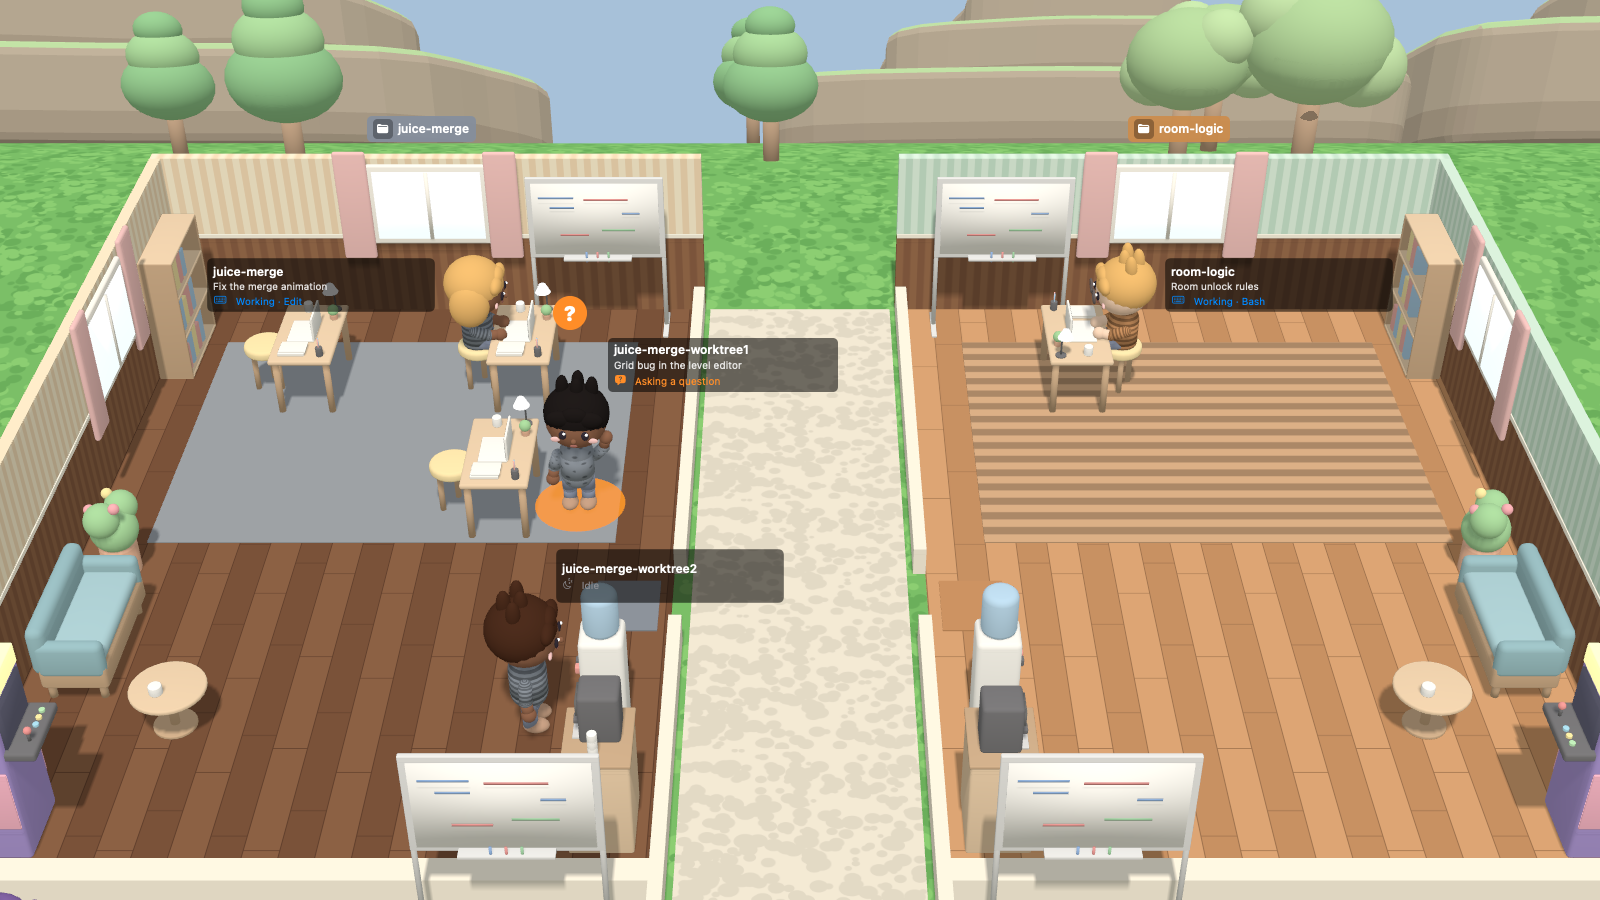
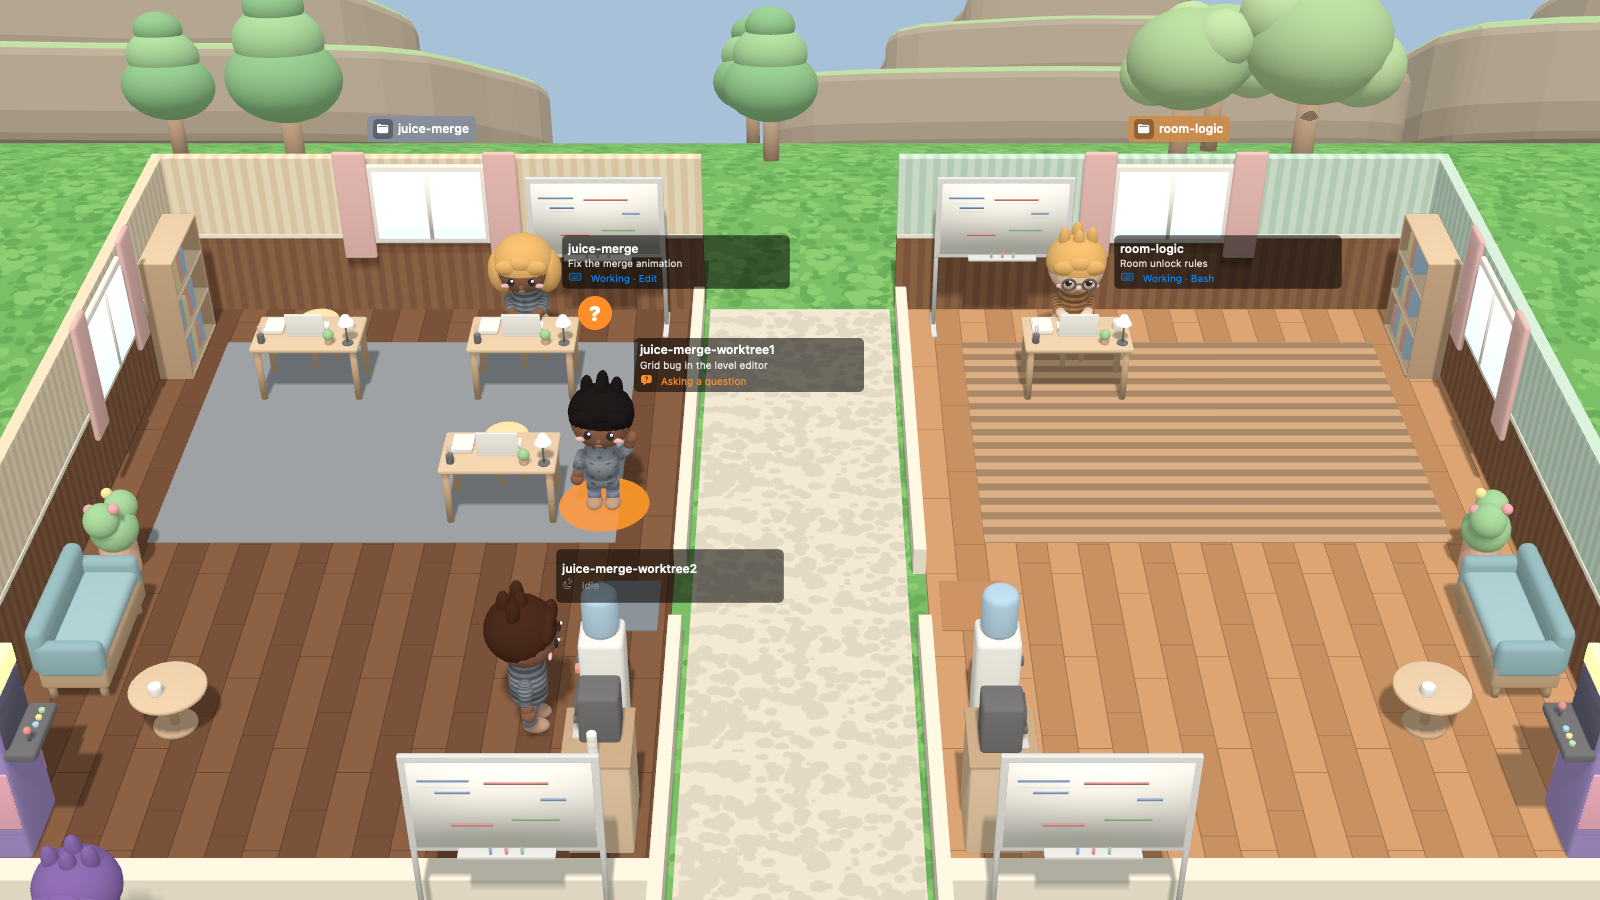
Desk direction setting: horizontal (default; agents sit behind the desk facing the camera, as before) or vertical (desks along the room, agents face the corridor); seats, stand spots, walking obstacles and the desk model follow it; README screenshot with horizontal desks

Changed region(s): [[0.125, 0.2489, 0.5625, 0.5911], [0.625, 0.2489, 0.875, 0.4667], [0.0, 0.9333, 0.0938, 1.0]]

diff --git a/Tests/AgentOfficeCoreTests/RoomLayoutTests.swift b/Tests/AgentOfficeCoreTests/RoomLayoutTests.swift
@@ -2,18 +2,34 @@ import Foundation
 import Testing
 @testable import AgentOfficeCore
 
-/// Ofis hayatı: masalar koridora bakar, odada sekiz eşya var ve hepsi oda düzenleyicisinden kapatılabilir.
+/// Ofis hayatı: masalar yatay (kameraya) ya da dikey (koridora) durur, odada sekiz eşya var ve hepsi oda
+/// düzenleyicisinden kapatılabilir. Yerleşim testleri iki yön için de.
 @Suite struct RoomLayoutTests {
     /// İki proje: ilk oda solda, ikincisi sağda.
-    func rooms(_ desks: Int, furniture: Set<RoomFurniture> = Set(RoomFurniture.allCases)) -> [OfficePlan.Room] {
+    func rooms(_ desks: Int, furniture: Set<RoomFurniture> = Set(RoomFurniture.allCases),
+               orientation: DeskOrientation = .horizontal) -> [OfficePlan.Room] {
         let members = (0..<desks).flatMap { i in [OfficePlan.Member(id: "a\(i)", roomKey: "/a"), OfficePlan.Member(id: "b\(i)", roomKey: "/b")] }
         let plan = OfficePlan.make(members, slots: OfficePlan.assignSlots(members, previous: [:]))
             .applying(furniture: ["/a": furniture, "/b": furniture])
+            .applying(deskOrientation: orientation)
         return plan.rooms
     }
 
-    @Test func seatFacesTheCorridor() {
+    /// Varsayılan yatay: köylü masanın arkasında oturur ve kameraya bakar.
+    @Test func horizontalSeatIsBehindTheDeskFacingTheCamera() {
         for room in rooms(2) {
+            #expect(room.deskOrientation == .horizontal)
+            for desk in room.desks {
+                let seat = room.seat(for: desk)
+                #expect(seat.x == desk.x && desk.z - seat.z > 0.3)
+                #expect(room.seatFacing(for: desk) == OfficePlan.Room.cameraFacing)
+                #expect(room.deskHalfExtents.x > room.deskHalfExtents.z)
+            }
+        }
+    }
+
+    @Test func verticalSeatFacesTheCorridor() {
+        for room in rooms(2, orientation: .vertical) {
             for desk in room.desks {
                 let seat = room.seat(for: desk)
                 // Köylü masanın koridordan uzak tarafında oturur ve koridora bakar.
@@ -36,9 +52,9 @@ import Testing
     }
 
     /// Eşyalar masalara, kapıya ve birbirine binmez (gövde payları çıkarılınca).
-    @Test(arguments: [1, 2, 3, 5, 8])
-    func desksAndFurnitureDoNotOverlap(desks: Int) {
-        for room in rooms(desks) {
+    @Test(arguments: [1, 2, 3, 5, 8], DeskOrientation.allCases)
+    func desksAndFurnitureDoNotOverlap(desks: Int, orientation: DeskOrientation) {
+        for room in rooms(desks, orientation: orientation) {
             let hard = RoomNav(room: room).obstacles.filter { !$0.soft }
             for (i, a) in hard.enumerated() {
                 for b in hard[(i + 1)...] {
@@ -51,8 +67,9 @@ import Testing
     }
 
     /// Bütün eşyalar kapalıyken de masalara ve kapıya yol var; kapalı eşya engel ve ilgi noktası değildir.
-    @Test func furnitureOffIsNotAnObstacleOrSpot() {
-        for room in rooms(4, furniture: []) {
+    @Test(arguments: DeskOrientation.allCases)
+    func furnitureOffIsNotAnObstacleOrSpot(orientation: DeskOrientation) {
+        for room in rooms(4, furniture: [], orientation: orientation) {
             #expect(room.spots.isEmpty)
             let nav = RoomNav(room: room)
             #expect(nav.obstacles.count == room.desks.count * 2)
@@ -62,14 +79,29 @@ import Testing
         #expect(Set(some.spots.map(\.kind)) == [.arcade, .whiteboard])
     }
 
-    @Test func everySpotIsReachableInBothSides() {
-        for room in rooms(6) {
+    @Test(arguments: DeskOrientation.allCases)
+    func everySpotIsReachableInBothSides(orientation: DeskOrientation) {
+        for room in rooms(6, orientation: orientation) {
             #expect(Set(room.spots.map(\.kind)) == Set(RoomSpot.Kind.allCases))
             let nav = RoomNav(room: room)
             for spot in room.spots {
                 let target = room.approach(to: spot)
                 #expect(nav.isFree(target.stand), "\(room.side) \(spot.kind) yaklaşma noktası dolu")
                 #expect(nav.path(from: room.doorInside, to: target.stand)?.last == target.stand, "\(room.side) \(spot.kind)")
+            }
+        }
+    }
+
+    /// Her masanın taburesine ve ayakta durma yerine kapıdan yol var; ayakta durma yeri boş (iki yön için).
+    @Test(arguments: [1, 4, 8], DeskOrientation.allCases)
+    func seatsAndStandSpotsAreReachable(desks: Int, orientation: DeskOrientation) {
+        for room in rooms(desks, orientation: orientation) {
+            let nav = RoomNav(room: room)
+            for desk in room.desks {
+                let stand = room.standSpot(for: desk), seat = room.seat(for: desk)
+                #expect(nav.isFree(stand), "\(room.side) \(orientation) ayakta durma yeri dolu")
+                #expect(nav.path(from: room.doorInside, to: stand)?.last == stand, "\(room.side) \(orientation)")
+                #expect(nav.path(from: room.doorInside, to: seat)?.last == seat, "\(room.side) \(orientation)")
             }
         }
     }

diff --git a/Sources/AgentOfficeCore/AvatarPlanner.swift b/Sources/AgentOfficeCore/AvatarPlanner.swift
@@ -124,18 +124,34 @@ public struct RoomSpot: Equatable, Sendable {
 extension OfficePlan.Room {
     public var doorInside: PlanPoint { PlanPoint(x: corridorEdgeX + outward * 0.35, z: doorZ) }
     public var doorOutside: PlanPoint { PlanPoint(x: corridorEdgeX - outward * 0.6, z: doorZ) }
+    /// Tabure: yatayda masanın arkasında (küçük z), dikeyde masanın koridordan uzak tarafında.
     public func seat(for desk: OfficePlan.Desk) -> PlanPoint {
-        PlanPoint(x: desk.x + outward * DeskGeometry.seatOffset, z: desk.z)
+        switch deskOrientation {
+        case .horizontal: PlanPoint(x: desk.x, z: desk.z - DeskGeometry.seatOffset)
+        case .vertical: PlanPoint(x: desk.x + outward * DeskGeometry.seatOffset, z: desk.z)
+        }
     }
     /// Kameraya (+z, ekranın altına) dönük yön: masanın yanında ayakta bekleyen köylü böyle durur.
     public static let cameraFacing = 0.0
-    /// Masada oturan köylünün yönü: koridora (sol oda +x, sağ oda −x). Masa da bu açıyla döner.
-    public func seatFacing(for desk: OfficePlan.Desk) -> Double { -outward * Double.pi / 2 }
+    /// Masada oturan köylünün yönü: yatayda kameraya, dikeyde koridora (sol oda +x, sağ oda −x). Masa da bu açıyla döner.
+    public func seatFacing(for desk: OfficePlan.Desk) -> Double {
+        switch deskOrientation {
+        case .horizontal: Self.cameraFacing
+        case .vertical: -outward * Double.pi / 2
+        }
+    }
+    /// Masanın x ve z boyunca yarı ölçüleri (yöne göre; uzun kenar yatayda x, dikeyde z boyunca).
+    public var deskHalfExtents: (x: Double, z: Double) {
+        switch deskOrientation {
+        case .horizontal: (DeskGeometry.deskHalfDepth, DeskGeometry.deskHalfWidth)
+        case .vertical: (DeskGeometry.deskHalfWidth, DeskGeometry.deskHalfDepth)
+        }
+    }
     /// Taburenin arkasındaki boşluk (bir sonraki masa sütununa kadar): köylüler masaya buradan yürür.
     public func aisleX(for desk: OfficePlan.Desk) -> Double { desk.x + outward * OfficePlan.columnSpacing / 2 }
     /// Masanın koridor tarafı: köylü beklerken burada ayakta durur.
     public func standSpot(for desk: OfficePlan.Desk) -> PlanPoint {
-        PlanPoint(x: desk.x - outward * (DeskGeometry.deskHalfWidth + 0.35), z: desk.z)
+        PlanPoint(x: desk.x - outward * (deskHalfExtents.x + 0.35), z: desk.z)
     }
 
     /// Eşyalar (açık olanlar): koridor tarafındaki arka köşede ayaklı beyaz tahta (arka penceresi ve oda tabelası

diff --git a/Sources/AgentOffice/SimpleOfficeView.swift b/Sources/AgentOffice/SimpleOfficeView.swift
@@ -111,6 +111,7 @@ struct SettingsView: View {
     @AppStorage(OfficeMetalView.dayNightKey) private var dayNight = true
     @AppStorage(OfficeView.autoFocusKey) private var autoFocus = true
     @AppStorage(OfficeMetalView.energySavingKey) private var energySaving = true
+    @AppStorage(AppModel.deskOrientationKey) private var deskOrientation = DeskOrientation.horizontal
 
     var body: some View {
         Form {
@@ -130,6 +131,14 @@ struct SettingsView: View {
             Divider()
             Toggle("Office view", isOn: $richOffice)
             Text("When on, the office is drawn with rooms and animation, and you can navigate it. When off, it shows plain cards without animation (less CPU and GPU).")
+                .font(.callout).foregroundStyle(.secondary).fixedSize(horizontal: false, vertical: true)
+            Picker("Desks", selection: $deskOrientation) {
+                Text("Horizontal").tag(DeskOrientation.horizontal)
+                Text("Vertical").tag(DeskOrientation.vertical)
+            }
+            .pickerStyle(.segmented)
+            .disabled(!richOffice)
+            Text("Horizontal: agents sit behind their desks facing you. Vertical: desks run along the room and agents face the corridor.")
                 .font(.callout).foregroundStyle(.secondary).fixedSize(horizontal: false, vertical: true)
             Toggle("Day and night", isOn: $dayNight).disabled(!richOffice)
             Text("The sky and light follow your computer's clock: sunrise, day, sunset and a starry night. When off, it is always daytime.")

diff --git a/Sources/AgentOfficeCore/RoomNav.swift b/Sources/AgentOfficeCore/RoomNav.swift
@@ -32,9 +32,13 @@ public struct RoomNav: Sendable {
         var obstacles: [Obstacle] = []
         let b = Self.body
         for desk in room.desks {
-            // Masa (koridora dönük): koridor ve yan taraflardan gövde payı; tabure tarafında az.
-            obstacles.append(Obstacle(x: desk.x, z: desk.z, shape: .rect(halfX: DeskGeometry.deskHalfWidth + 0.05,
-                                                                           halfZ: DeskGeometry.deskHalfDepth + b), soft: false))
+            // Masa: yanlardan gövde payı; tabure tarafında ve önünde az (tabure masanın hemen arkasında).
+            let half = room.deskHalfExtents
+            let shape: Obstacle.Shape = switch room.deskOrientation {
+            case .horizontal: .rect(halfX: half.x + b, halfZ: half.z + 0.05)
+            case .vertical: .rect(halfX: half.x + 0.05, halfZ: half.z + b)
+            }
+            obstacles.append(Obstacle(x: desk.x, z: desk.z, shape: shape, soft: false))
             let seat = room.seat(for: desk)
             obstacles.append(Obstacle(x: seat.x, z: seat.z, shape: .circle(radius: 0.19 + 0.12), soft: true))
         }

diff --git a/Sources/AgentOfficeCore/RoomFurniture.swift b/Sources/AgentOfficeCore/RoomFurniture.swift
@@ -6,7 +6,19 @@ public enum RoomFurniture: String, CaseIterable, Codable, Sendable {
     public static let all = Set(allCases)
 }
 
+/// Masaların yönü (ayarlar): yatayda masa enine durur, köylü arkasında oturup kameraya bakar; dikeyde masa boyuna
+/// durur, köylü koridora bakar.
+public enum DeskOrientation: String, CaseIterable, Codable, Sendable {
+    case horizontal, vertical
+}
+
 extension OfficePlan {
+    public func applying(deskOrientation: DeskOrientation) -> OfficePlan {
+        var plan = self
+        for i in plan.rooms.indices { plan.rooms[i].deskOrientation = deskOrientation }
+        return plan
+    }
+
     /// Odaların eşyaları (oda stilinden); listede olmayan oda hepsini alır.
     public func applying(furniture: [String: Set<RoomFurniture>]) -> OfficePlan {
         var plan = self

diff --git a/Sources/AgentOffice/AppModel.swift b/Sources/AgentOffice/AppModel.swift
@@ -671,6 +671,13 @@ extension AppModel {
         roomOrder = OfficePlan.roomOrder(members, previous: roomOrder)
         let plan = OfficePlan.make(members, slots: deskSlots, order: roomOrder)
         return plan.applying(furniture: Dictionary(uniqueKeysWithValues: plan.rooms.map { ($0.key, style(for: $0.key).furniture) }))
+            .applying(deskOrientation: Self.deskOrientation)
+    }
+
+    /// Ayarlardaki masa yönü (varsayılan yatay: köylü kameraya bakar).
+    static let deskOrientationKey = "deskOrientation"
+    static var deskOrientation: DeskOrientation {
+        UserDefaults.standard.string(forKey: deskOrientationKey).flatMap(DeskOrientation.init(rawValue:)) ?? .horizontal
     }
 
     /// Henüz bakılmamış proje klasörlerinin ikonunu arka planda bulur.

diff --git a/Sources/AgentOffice/OfficeView.swift b/Sources/AgentOffice/OfficeView.swift
@@ -16,6 +16,8 @@ struct OfficeView: View {
     @State private var unavailable = false
     /// Köylülerin yerleri: 0,2 sn'de bir okunur, sadece değişince güncellenir (dururken kartlar yeniden çizilmez).
     @State private var villagers: [String: AvatarSim.Position] = [:]
+    /// Ayar değişince plan (masa yönü) yeniden kurulsun.
+    @AppStorage(AppModel.deskOrientationKey) private var deskOrientation = DeskOrientation.horizontal
 
     var body: some View {
         Group {
@@ -38,6 +40,7 @@ struct OfficeView: View {
     }
 
     private func content(_ gpu: OfficeGPU) -> some View {
+        _ = deskOrientation
         let plan = model.officePlan()
         let desks = deskInfos(plan)
         let scene = OfficeSceneInput(

diff --git a/Sources/AgentOfficeCore/OfficePlan.swift b/Sources/AgentOfficeCore/OfficePlan.swift
@@ -79,6 +79,8 @@ public struct OfficePlan: Equatable, Sendable {
         public var desks: [Desk]
         /// Odadaki eşyalar (oda stilinden, `OfficePlan.applying(furniture:)`).
         public var furniture: Set<RoomFurniture> = RoomFurniture.all
+        /// Masaların yönü (ayarlardan, `OfficePlan.applying(deskOrientation:)`).
+        public var deskOrientation: DeskOrientation = .horizontal
 
         public var title: String { (key as NSString).lastPathComponent }
         public var rect: PlanRect { PlanRect(minX: x, minZ: z, maxX: x + width, maxZ: z + depth) }
